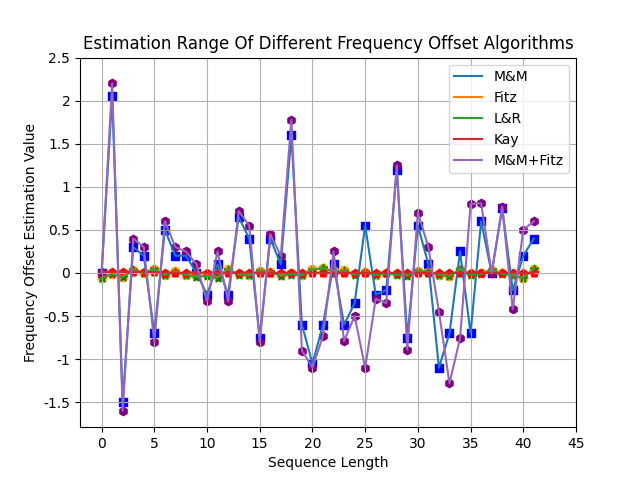
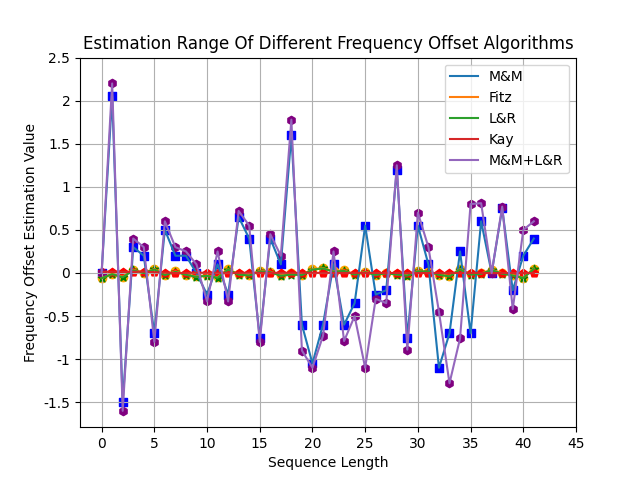
M&M+L&R算法

Changed region(s): [[0.75, 0.125, 0.875, 0.3438], [0.6875, 0.1562, 0.7188, 0.25], [0.6875, 0.2812, 0.7188, 0.3438]]

diff --git a/costas_lab.py b/costas_lab.py
@@ -1,0 +1,52 @@
+import numpy as np
+import matplotlib.pyplot as plt
+
+
+def costas_loop_tracking(N):
+    # 初始频率偏差（较大）
+    initial_frequency_deviation = 10e3  # 假设初始频偏为 10 kHz
+    # 目标频率
+    target_frequency = 3.56e6  # 假设最终收敛到 3.56 MHz
+    # 定义一个噪声因子，模拟噪声的影响
+    noise_factor = 2e3  # 噪声的幅度
+    # 调整因子，用于控制收敛速度
+    decay_factor = 0.05
+
+    # 生成随机噪声
+    noise = noise_factor * (np.random.randn(N))
+    # 模拟跟踪过程，使用指数衰减的方式向准确频率收敛，并添加噪声
+    frequency = np.zeros(N)
+    frequency[0] = target_frequency + initial_frequency_deviation + noise[0]
+    for i in range(1, N):
+        # 指数衰减项，随着时间逐渐减小频率偏差
+        decay_term = initial_frequency_deviation * np.exp(-decay_factor * i)
+        # 震荡项，使频率在收敛过程中产生上下波动
+        oscillation_term = 5e3 * np.sin(0.05 * i)
+        # 确保频率不会超过初始偏差范围
+        bounded_oscillation_term = np.clip(oscillation_term, -initial_frequency_deviation, initial_frequency_deviation)
+        frequency[i] = target_frequency + decay_term + bounded_oscillation_term + noise[i]
+    # 强制最终频率收敛到目标频率
+    frequency[-1] = target_frequency
+
+    return frequency
+
+
+# 采样频率
+fs = 1e6  # 假设为 1 MHz
+# 采样点数
+N = 500
+# 将采样点数转换为时间 (ms)
+t = np.arange(N) / fs * 1000
+
+tracking = costas_loop_tracking(N)
+
+# 绘制跟踪曲线
+plt.figure(figsize=(10, 6))
+plt.plot(t, tracking, label='Costas', linewidth=2)
+plt.xlabel('Time (ms)')
+plt.ylabel('Frequency (Hz)')
+plt.title('Costas Process')
+plt.legend()
+plt.grid(True)
+plt.savefig("img/Costas_Lab.png")
+plt.show()

diff --git a/estimation_speed_lab.py b/estimation_speed_lab.py
@@ -68,7 +68,7 @@ ax.plot(X, MM_Y, label='M&M')
 ax.plot(X, FITZ_Y, label='Fitz')
 ax.plot(X, LR_Y, label='L&R')
 ax.plot(X, KAY_Y, label='Kay')
-ax.plot(X, MM_FITZ_Y, label='M&M+Fitz')
+ax.plot(X, MM_FITZ_Y, label='M&M+L&R')
 ax.plot(X, COSTAS_Y, label='Costas')
 
 # 标记点

diff --git a/estimation_range_lab3.py b/estimation_range_lab3.py
@@ -59,7 +59,7 @@ ax.plot(X, MM_Y, label='M&M')
 ax.plot(X, FITZ_Y, label='Fitz')
 ax.plot(X, LR_Y, label='L&R')
 ax.plot(X, KAY_Y, label='Kay')
-ax.plot(X, MM_FITZ_Y, label='M&M+Fitz')
+ax.plot(X, MM_FITZ_Y, label='M&M+L&R')
 
 # 标记点
 for i in range(42):

diff --git a/normalization_mse_lab.py b/normalization_mse_lab.py
@@ -20,7 +20,7 @@ ax.plot(X, FITZ_Y, label='Fitz')
 ax.plot(X, LR_Y, label='L&R')
 ax.plot(X, KAY_Y, label='Kay')
 ax.plot(X, MM_Y, label='M&M')
-ax.plot(X, MM_FITZ_Y, label='M&M+Fitz')
+ax.plot(X, MM_FITZ_Y, label='M&M+L&R')
 
 # 标记点
 for i in range(9):
